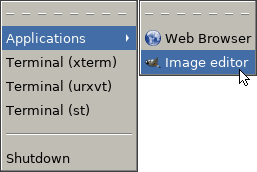
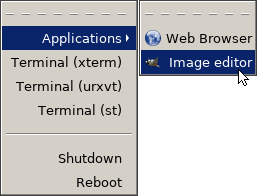
fix menu size and placement

diff --git a/xmenu.c b/xmenu.c
@@ -1780,6 +1780,7 @@ popupmenu(Widget *widget, XRectangle *basis)
 
 	type = widget->atoms[_NET_WM_WINDOW_TYPE_POPUP_MENU];
 	override_redirect = true;
+	tearoff = widget->tearoff;
 	if (widget->menus != NULL) {
 		if (widget->menus->selected == NULL)
 			return;         /* no item selected */
@@ -1788,9 +1789,8 @@ popupmenu(Widget *widget, XRectangle *basis)
 		caller = widget->menus->selected;
 		name = caller->output;
 		items = caller->children;
-		xgap = widget->gap;
+		xgap = widget->gap + widget->borderwid * 2;
 		ygap = -widget->shadowwid;
-		tearoff = widget->tearoff;
 		if (tearoff)
 			ygap -= widget->itemh;
 		(void)grab(widget);
@@ -1799,8 +1799,8 @@ popupmenu(Widget *widget, XRectangle *basis)
 		name = options.title;
 		items = options.items;
 		xgap = ygap = INITIAL_DISPLACEMENT;
-		tearoff = false;
 		if (options.windowed) {
+			tearoff = false;
 			override_redirect = false;
 			type = widget->atoms[_NET_WM_WINDOW_TYPE_MENU];
 		}
